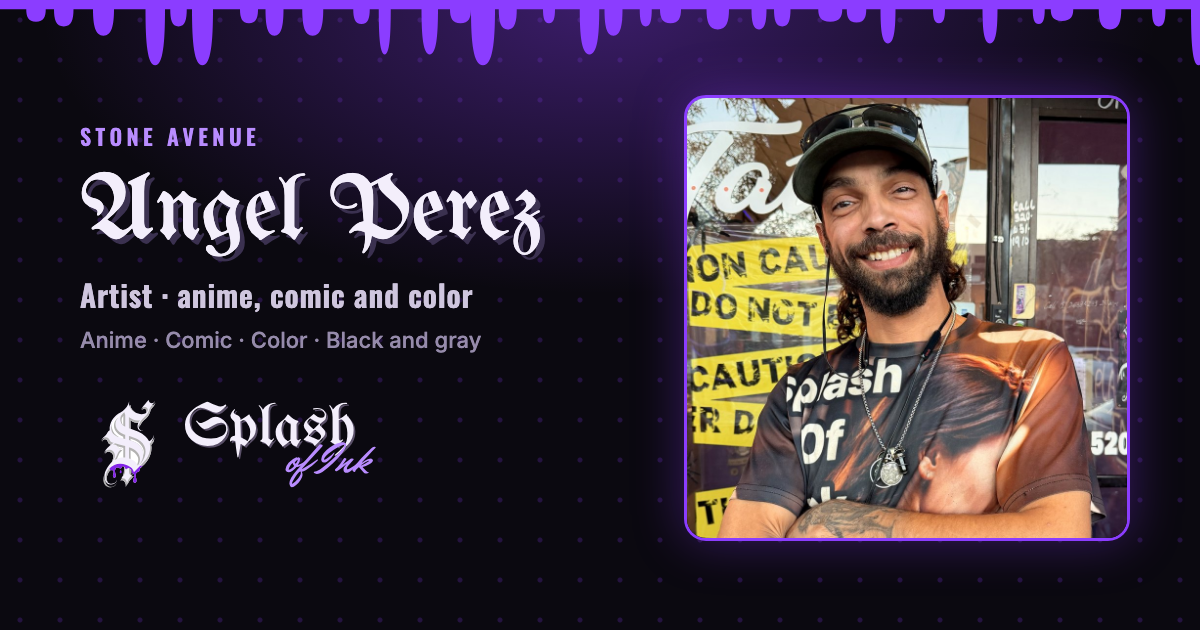
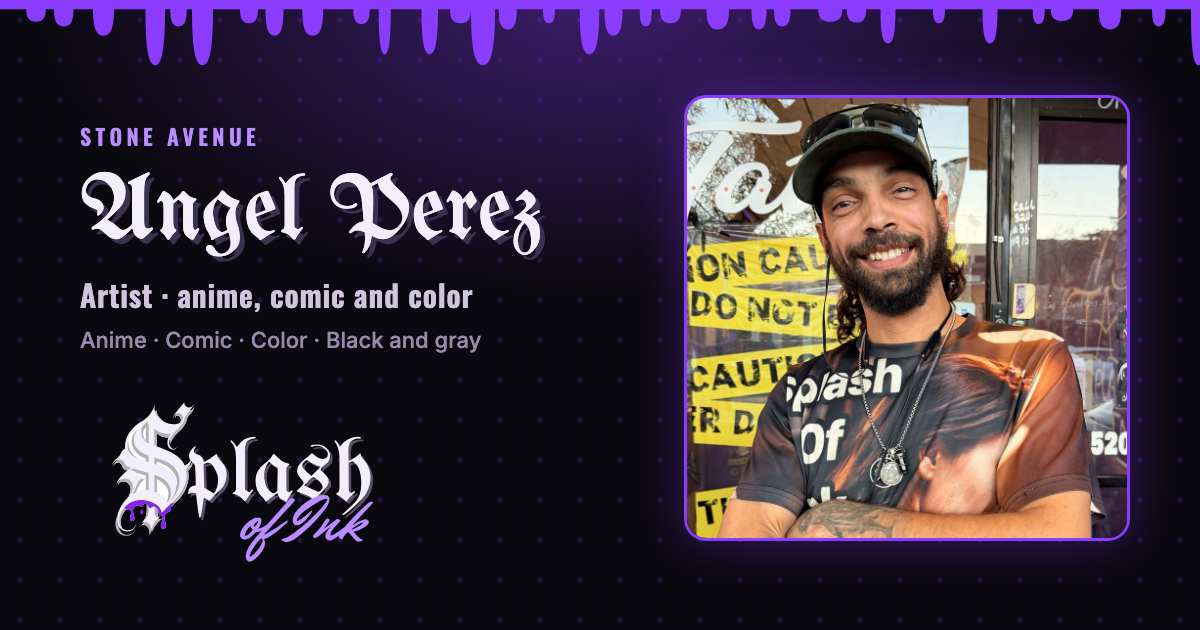
Lockup: the drip S mark is the S of Splash (Magic: the blackletter S read like a G or T); share images regenerated
Claude-Session: https://claude.ai/code/session_011cbYtE6oghB4j8HusPhw6A

Changed region(s): [[0.0617, 0.6333, 0.3083, 0.9048]]

diff --git a/index.html b/index.html
@@ -4,13 +4,13 @@
 <link href="https://fonts.googleapis.com/css2?family=Inter:wght@400;500;600&family=Oswald:wght@500;600&family=UnifrakturMaguntia&family=Mr+Dafoe&display=swap" rel="stylesheet">
 <link rel="stylesheet" href="style.css"></head><body>
 <div class="draft">DRAFT for Splash of Ink · samples, links and hours are placeholders · forms send nothing</div>
-<header><div class="wrap"><a class="brand" href="index.html"><img src="assets/brand/lockup-dark.svg" alt="Splash of Ink" height="46"></a>
+<header><div class="wrap"><a class="brand" href="index.html"><img src="assets/brand/lockup-dark.svg?v=22417cc6" alt="Splash of Ink" height="46"></a>
 <nav><a href="index.html" class=on>Home</a><a href="artists.html">Artists</a><a href="prices.html">Prices</a><a href="apprentice.html">Apprentices</a><a href="visit.html">Visit</a></nav></div></header>
 <div class="drip" aria-hidden="true"></div>
 
 <section class="hero"><div class="wrap">
   <div class="eyebrow">Tattoo and piercing · two shops in Tucson</div>
-  <h1 class="lockup"><img src="assets/brand/lockup-dark.svg" alt="Splash of Ink"></h1>
+  <h1 class="lockup"><img src="assets/brand/lockup-dark.svg?v=22417cc6" alt="Splash of Ink"></h1>
   <p class="lead">Good art, good people, good vibes. Find your shop, pick your artist, and ask them for prices.</p>
   <div class="row"><a class="btn" href="#shops">Find your shop</a><a class="btn ghost" href="artists.html">Meet the artists</a></div>
   <div class="callbar"><a class="call" href="tel:+15206511910"><span class="cl">Main line · Master D</span><span class="cn">(520) 651-1910</span></a><a class="call alt" href="tel:+15203923594"><span class="cl">Second line · Magic</span><span class="cn">(520) 392-3594</span></a></div>

diff --git a/apprentice.html b/apprentice.html
@@ -4,7 +4,7 @@
 <link href="https://fonts.googleapis.com/css2?family=Inter:wght@400;500;600&family=Oswald:wght@500;600&family=UnifrakturMaguntia&family=Mr+Dafoe&display=swap" rel="stylesheet">
 <link rel="stylesheet" href="style.css"></head><body>
 <div class="draft">DRAFT for Splash of Ink · samples, links and hours are placeholders · forms send nothing</div>
-<header><div class="wrap"><a class="brand" href="index.html"><img src="assets/brand/lockup-dark.svg" alt="Splash of Ink" height="46"></a>
+<header><div class="wrap"><a class="brand" href="index.html"><img src="assets/brand/lockup-dark.svg?v=22417cc6" alt="Splash of Ink" height="46"></a>
 <nav><a href="index.html">Home</a><a href="artists.html">Artists</a><a href="prices.html">Prices</a><a href="apprentice.html" class=on>Apprentices</a><a href="visit.html">Visit</a></nav></div></header>
 <div class="drip" aria-hidden="true"></div>
 

diff --git a/artist-angel-perez.html b/artist-angel-perez.html
@@ -4,7 +4,7 @@
 <link href="https://fonts.googleapis.com/css2?family=Inter:wght@400;500;600&family=Oswald:wght@500;600&family=UnifrakturMaguntia&family=Mr+Dafoe&display=swap" rel="stylesheet">
 <link rel="stylesheet" href="style.css"></head><body>
 <div class="draft">DRAFT for Splash of Ink · samples, links and hours are placeholders · forms send nothing</div>
-<header><div class="wrap"><a class="brand" href="index.html"><img src="assets/brand/lockup-dark.svg" alt="Splash of Ink" height="46"></a>
+<header><div class="wrap"><a class="brand" href="index.html"><img src="assets/brand/lockup-dark.svg?v=22417cc6" alt="Splash of Ink" height="46"></a>
 <nav><a href="index.html">Home</a><a href="artists.html" class=on>Artists</a><a href="prices.html">Prices</a><a href="apprentice.html">Apprentices</a><a href="visit.html">Visit</a></nav></div></header>
 <div class="drip" aria-hidden="true"></div>
 

diff --git a/artist-annie.html b/artist-annie.html
@@ -4,7 +4,7 @@
 <link href="https://fonts.googleapis.com/css2?family=Inter:wght@400;500;600&family=Oswald:wght@500;600&family=UnifrakturMaguntia&family=Mr+Dafoe&display=swap" rel="stylesheet">
 <link rel="stylesheet" href="style.css"></head><body>
 <div class="draft">DRAFT for Splash of Ink · samples, links and hours are placeholders · forms send nothing</div>
-<header><div class="wrap"><a class="brand" href="index.html"><img src="assets/brand/lockup-dark.svg" alt="Splash of Ink" height="46"></a>
+<header><div class="wrap"><a class="brand" href="index.html"><img src="assets/brand/lockup-dark.svg?v=22417cc6" alt="Splash of Ink" height="46"></a>
 <nav><a href="index.html">Home</a><a href="artists.html" class=on>Artists</a><a href="prices.html">Prices</a><a href="apprentice.html">Apprentices</a><a href="visit.html">Visit</a></nav></div></header>
 <div class="drip" aria-hidden="true"></div>
 

diff --git a/artist-magic.html b/artist-magic.html
@@ -4,7 +4,7 @@
 <link href="https://fonts.googleapis.com/css2?family=Inter:wght@400;500;600&family=Oswald:wght@500;600&family=UnifrakturMaguntia&family=Mr+Dafoe&display=swap" rel="stylesheet">
 <link rel="stylesheet" href="style.css"></head><body>
 <div class="draft">DRAFT for Splash of Ink · samples, links and hours are placeholders · forms send nothing</div>
-<header><div class="wrap"><a class="brand" href="index.html"><img src="assets/brand/lockup-dark.svg" alt="Splash of Ink" height="46"></a>
+<header><div class="wrap"><a class="brand" href="index.html"><img src="assets/brand/lockup-dark.svg?v=22417cc6" alt="Splash of Ink" height="46"></a>
 <nav><a href="index.html">Home</a><a href="artists.html" class=on>Artists</a><a href="prices.html">Prices</a><a href="apprentice.html">Apprentices</a><a href="visit.html">Visit</a></nav></div></header>
 <div class="drip" aria-hidden="true"></div>
 

diff --git a/artist-master-d.html b/artist-master-d.html
@@ -4,7 +4,7 @@
 <link href="https://fonts.googleapis.com/css2?family=Inter:wght@400;500;600&family=Oswald:wght@500;600&family=UnifrakturMaguntia&family=Mr+Dafoe&display=swap" rel="stylesheet">
 <link rel="stylesheet" href="style.css"></head><body>
 <div class="draft">DRAFT for Splash of Ink · samples, links and hours are placeholders · forms send nothing</div>
-<header><div class="wrap"><a class="brand" href="index.html"><img src="assets/brand/lockup-dark.svg" alt="Splash of Ink" height="46"></a>
+<header><div class="wrap"><a class="brand" href="index.html"><img src="assets/brand/lockup-dark.svg?v=22417cc6" alt="Splash of Ink" height="46"></a>
 <nav><a href="index.html">Home</a><a href="artists.html" class=on>Artists</a><a href="prices.html">Prices</a><a href="apprentice.html">Apprentices</a><a href="visit.html">Visit</a></nav></div></header>
 <div class="drip" aria-hidden="true"></div>
 

diff --git a/artists.html b/artists.html
@@ -4,7 +4,7 @@
 <link href="https://fonts.googleapis.com/css2?family=Inter:wght@400;500;600&family=Oswald:wght@500;600&family=UnifrakturMaguntia&family=Mr+Dafoe&display=swap" rel="stylesheet">
 <link rel="stylesheet" href="style.css"></head><body>
 <div class="draft">DRAFT for Splash of Ink · samples, links and hours are placeholders · forms send nothing</div>
-<header><div class="wrap"><a class="brand" href="index.html"><img src="assets/brand/lockup-dark.svg" alt="Splash of Ink" height="46"></a>
+<header><div class="wrap"><a class="brand" href="index.html"><img src="assets/brand/lockup-dark.svg?v=22417cc6" alt="Splash of Ink" height="46"></a>
 <nav><a href="index.html">Home</a><a href="artists.html" class=on>Artists</a><a href="prices.html">Prices</a><a href="apprentice.html">Apprentices</a><a href="visit.html">Visit</a></nav></div></header>
 <div class="drip" aria-hidden="true"></div>
 

diff --git a/prices.html b/prices.html
@@ -4,7 +4,7 @@
 <link href="https://fonts.googleapis.com/css2?family=Inter:wght@400;500;600&family=Oswald:wght@500;600&family=UnifrakturMaguntia&family=Mr+Dafoe&display=swap" rel="stylesheet">
 <link rel="stylesheet" href="style.css"></head><body>
 <div class="draft">DRAFT for Splash of Ink · samples, links and hours are placeholders · forms send nothing</div>
-<header><div class="wrap"><a class="brand" href="index.html"><img src="assets/brand/lockup-dark.svg" alt="Splash of Ink" height="46"></a>
+<header><div class="wrap"><a class="brand" href="index.html"><img src="assets/brand/lockup-dark.svg?v=22417cc6" alt="Splash of Ink" height="46"></a>
 <nav><a href="index.html">Home</a><a href="artists.html">Artists</a><a href="prices.html" class=on>Prices</a><a href="apprentice.html">Apprentices</a><a href="visit.html">Visit</a></nav></div></header>
 <div class="drip" aria-hidden="true"></div>
 

diff --git a/visit.html b/visit.html
@@ -4,7 +4,7 @@
 <link href="https://fonts.googleapis.com/css2?family=Inter:wght@400;500;600&family=Oswald:wght@500;600&family=UnifrakturMaguntia&family=Mr+Dafoe&display=swap" rel="stylesheet">
 <link rel="stylesheet" href="style.css"></head><body>
 <div class="draft">DRAFT for Splash of Ink · samples, links and hours are placeholders · forms send nothing</div>
-<header><div class="wrap"><a class="brand" href="index.html"><img src="assets/brand/lockup-dark.svg" alt="Splash of Ink" height="46"></a>
+<header><div class="wrap"><a class="brand" href="index.html"><img src="assets/brand/lockup-dark.svg?v=22417cc6" alt="Splash of Ink" height="46"></a>
 <nav><a href="index.html">Home</a><a href="artists.html">Artists</a><a href="prices.html">Prices</a><a href="apprentice.html">Apprentices</a><a href="visit.html" class=on>Visit</a></nav></div></header>
 <div class="drip" aria-hidden="true"></div>
 

diff --git a/build.py b/build.py
@@ -116,7 +116,7 @@ HEAD = '''<!doctype html><html lang="en"><head><meta charset="utf-8"><meta name=
 <link href="https://fonts.googleapis.com/css2?family=Inter:wght@400;500;600&family=Oswald:wght@500;600&family=UnifrakturMaguntia&family=Mr+Dafoe&display=swap" rel="stylesheet">
 <link rel="stylesheet" href="style.css"></head><body>
 <div class="draft">DRAFT for Splash of Ink · samples, links and hours are placeholders · forms send nothing</div>
-<header><div class="wrap"><a class="brand" href="index.html"><img src="assets/brand/lockup-dark.svg" alt="Splash of Ink" height="46"></a>
+<header><div class="wrap"><a class="brand" href="index.html"><img src="assets/brand/lockup-dark.svg?v=22417cc6" alt="Splash of Ink" height="46"></a>
 <nav>{nav}</nav></div></header>
 <div class="drip" aria-hidden="true"></div>
 '''
@@ -199,7 +199,7 @@ HOURSCARD = '<div class="card"><h3>Hours</h3><p style="font-size:18px;color:var(
 page('index.html', 'Splash of Ink · Tattoo and piercing in Tucson', f'''
 <section class="hero"><div class="wrap">
   <div class="eyebrow">Tattoo and piercing · two shops in Tucson</div>
-  <h1 class="lockup"><img src="assets/brand/lockup-dark.svg" alt="Splash of Ink"></h1>
+  <h1 class="lockup"><img src="assets/brand/lockup-dark.svg?v=22417cc6" alt="Splash of Ink"></h1>
   <p class="lead">Good art, good people, good vibes. Find your shop, pick your artist, and ask them for prices.</p>
   <div class="row"><a class="btn" href="#shops">Find your shop</a><a class="btn ghost" href="artists.html">Meet the artists</a></div>
   {callbar()}
